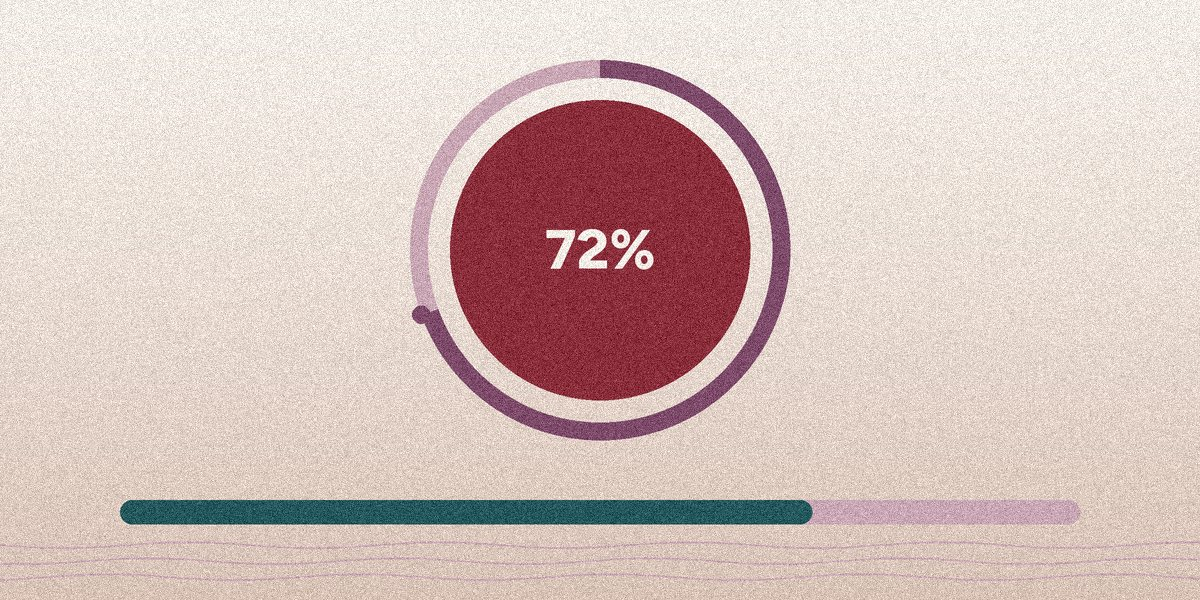
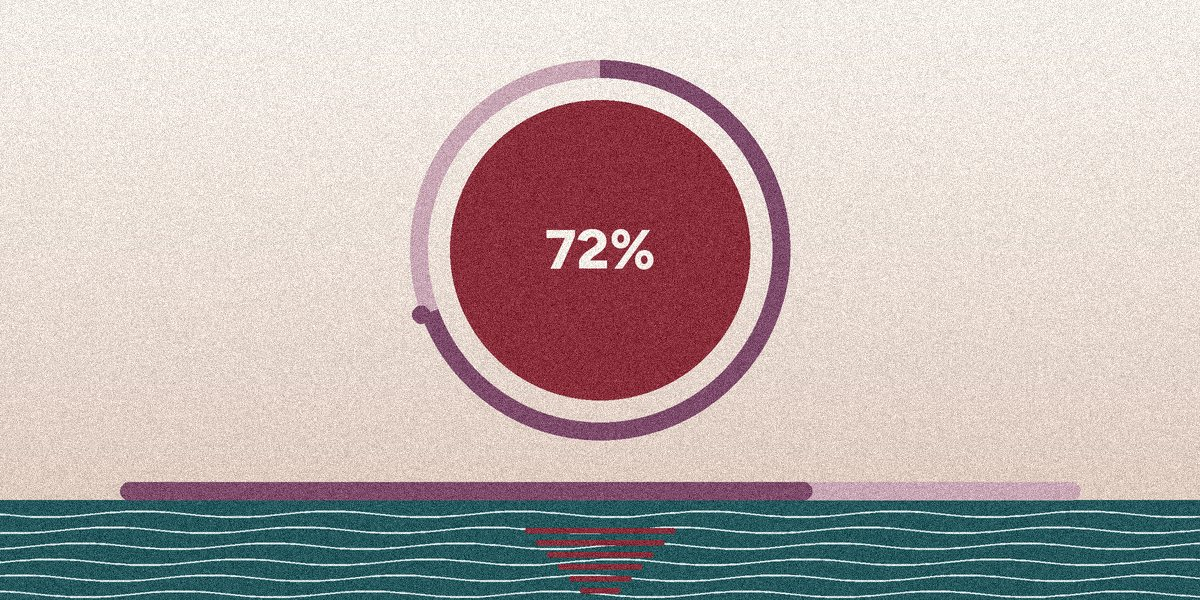
Vibes tech: Loading gets a real sea with swell lines and a sun reflection
Claude-Session: https://claude.ai/code/session_01CPFfiZz4rjPwAdTY8Ptavd

Changed region(s): [[0.0, 0.78, 1.0, 1.0]]

diff --git a/art/vibes/tech.py b/art/vibes/tech.py
@@ -76,9 +76,12 @@ arcband(im, 600, 250, 190, 18, 0, 360, c['mauve'])
 arcband(im, 600, 250, 190, 18, -90, 160, c['plum'])
 disc(im, 600 + 190 * math.cos(math.radians(160)), 250 + 190 * math.sin(math.radians(160)), 9, c['plum'])
 text(im, 545, 215, '72%', 56, c['paper'], 800)
-rr(im, 120, 500, 1080, 524, 12, c['mauve'])
-rr(im, 120, 500, 812, 524, 12, c['teal'])
-for k in range(3): line(im, [(x, 545 + k * 16 + math.sin(x / 40 + k) * 3) for x in range(0, 1201, 5)], c['mauve'], 2)
+sea(im, 500, c['teal'], c['foamb'], gap=16, amp=3, freq=30)            # real sea below the horizon
+for k in range(6):                                                         # the sun's reflection
+    w_ = 150 - k * 22
+    rr(im, 600 - w_/2, 528 + k * 12, 600 + w_/2, 533 + k * 12, 2, c['wine'])
+rr(im, 120, 482, 1080, 500, 9, c['mauve'])                               # progress bar on the horizon
+rr(im, 120, 482, 812, 500, 9, c['plum'])
 finish(im, OUT + 'tech_05_loading.jpg', seed=45)
 
 # 6 Signal: wifi arcs rising off a little router like a sunrise over the sea
